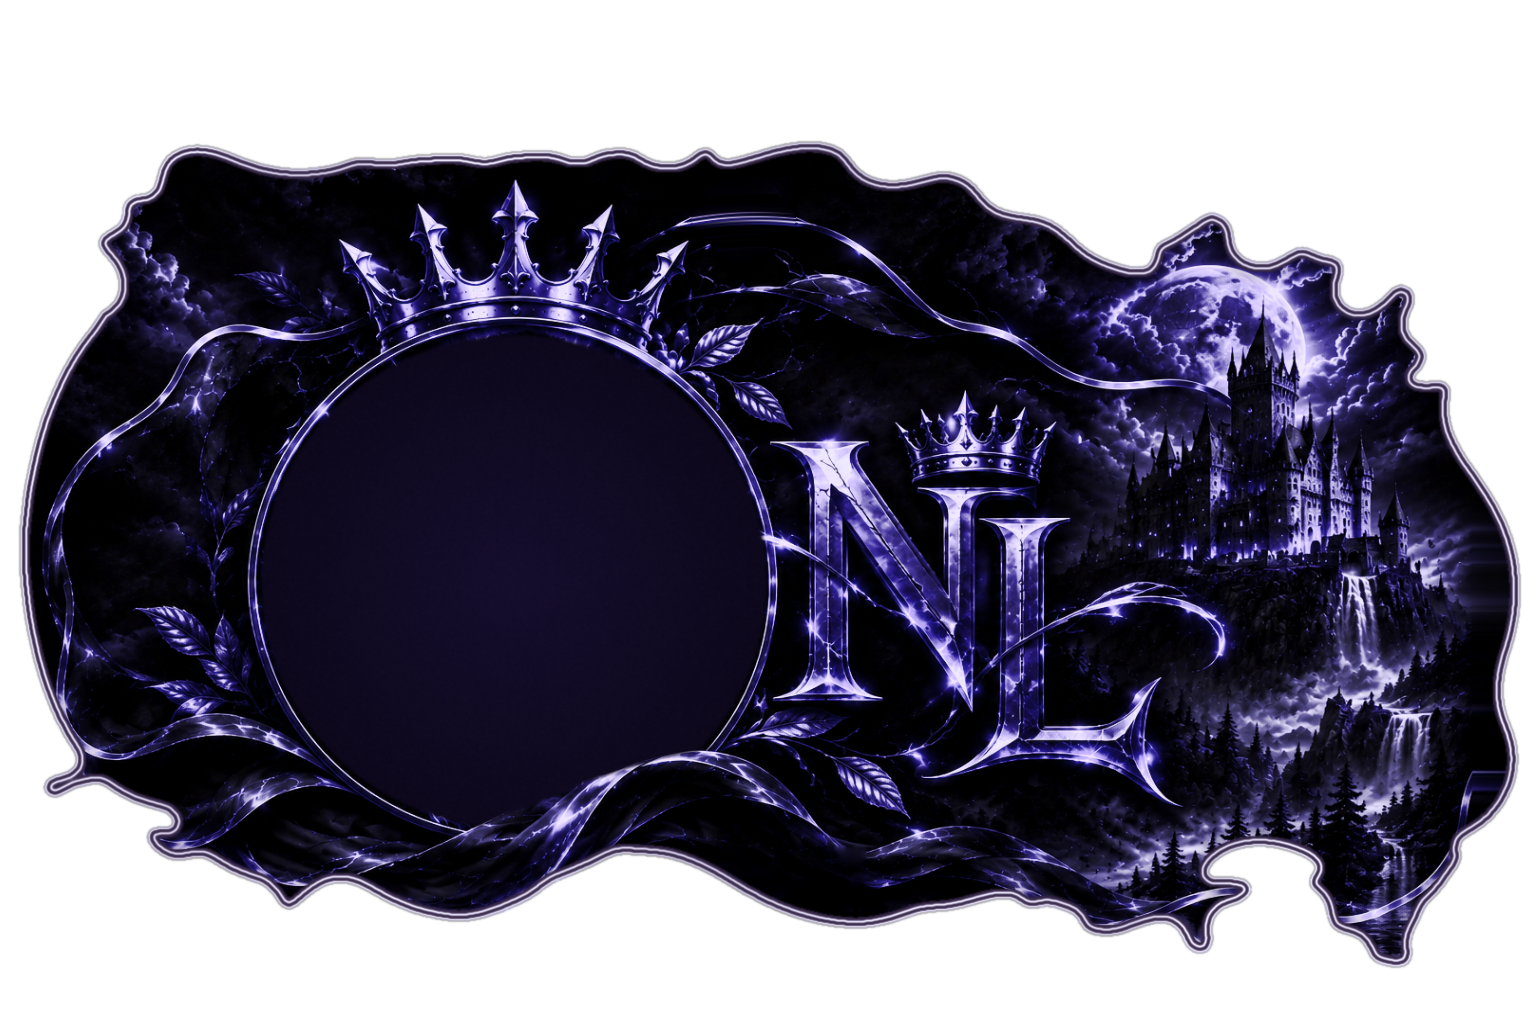
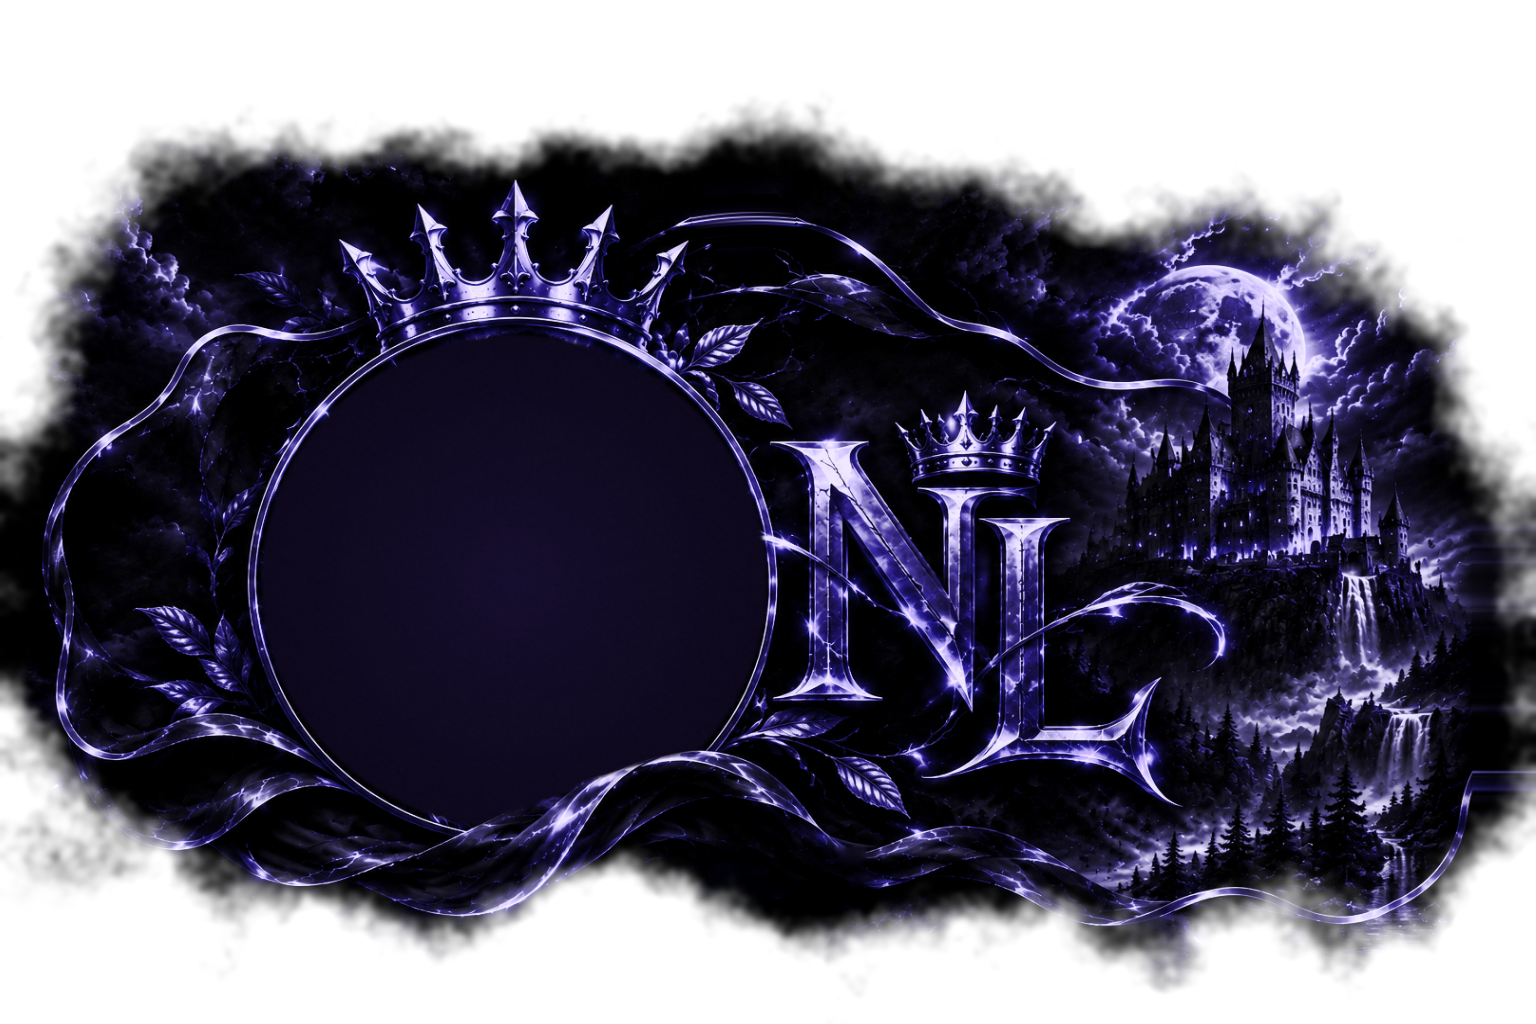
ترحيب: صورة الإطار الجديدة + مكان دائرة الأفتار محدّث تلقائيًا

Changed region(s): [[0.0, 0.0938, 1.0, 0.9688]]

diff --git a/never-land/welcome-frame-test.js b/never-land/welcome-frame-test.js
@@ -362,6 +362,44 @@ async function main() {
     ok('الصورة تُرسل أولًا ثم النص · {inviter} منشن · الدعوة العامة (فانيتي/بوت/مجهولة) ⇒ منشن 1345866950776979547 · الإيموجي الخارجي يُرفع أو يُبدَّل بـ ✨');
   }
 
+  console.log('\n═══ ٩) صورة الإطار الجديدة + ترقية مكان الدائرة تلقائيًا ═══');
+  {
+    const welcome = require('./src/systems/welcome');
+    const conf = require('./src/config');
+    assert.ok(typeof welcome.ensureFrameLayout === 'function', 'دالة ترقية مكان الدائرة ناقصة');
+
+    /* صورة الإطار = النسخة الجديدة (نفس رمز الصورة التي أرسلها المدير) */
+    const img = fs.readFileSync(FRAME);
+    const meta = config.defaults.welcome.frameCircle;
+    const px = img.readUInt32BE(16);
+    const py = img.readUInt32BE(20);
+    assert.strictEqual(px, 1536, 'عرض صورة الإطار الجديدة خطأ');
+    assert.strictEqual(py, 1024, 'ارتفاع صورة الإطار الجديدة خطأ');
+    assert.ok(Math.abs(meta.cx - 0.33398) < 0.0005 && Math.abs(meta.cy - 0.56494) < 0.0005, 'مركز دائرة الصورة الجديدة خطأ');
+    assert.ok(Math.abs(meta.r - 0.25244) < 0.0005, 'نصف قطر دائرة الصورة الجديدة خطأ');
+    /* مركز الدائرة المقيس من الصورة نفسها (فحص بكسلات: الحلقة لامعة) */
+    const cxPx = meta.cx * px;
+    const cyPx = meta.cy * py;
+    assert.ok(Math.abs(cxPx - 513) < 4 && Math.abs(cyPx - 578) < 4, `مركز الدائرة بالبكسل خطأ (${cxPx.toFixed(1)}, ${cyPx.toFixed(1)})`);
+
+    /* الإعدادات القديمة (دائرة النسخة الأولى) تُرقّى مرة واحدة · والمخصّصة ما تُلمس */
+    const legacyGuild = '920000000000000042';
+    db.updateGuildSettings(legacyGuild, {
+      welcome: { enabled: true, channelId: '1549365058633736243', imageMode: 'frame', styleUpgraded: true, frameCircle: { cx: 0.33431, cy: 0.56543, r: 0.2525 } },
+    });
+    assert.strictEqual(welcome.ensureFrameLayout(legacyGuild), true, 'الإعدادات القديمة لازم تُرقّى');
+    assert.deepStrictEqual(db.getGuildSettings(legacyGuild).welcome.frameCircle, conf.defaults.welcome.frameCircle, 'الدائرة المرقّاة لازم تساوي الافتراضي الجديد');
+    assert.strictEqual(welcome.ensureFrameLayout(legacyGuild), false, 'الترقية لازم تصير مرة واحدة');
+
+    const customGuild = '920000000000000043';
+    db.updateGuildSettings(customGuild, { welcome: { frameCircle: { cx: 0.5, cy: 0.5, r: 0.2 } } });
+    assert.strictEqual(welcome.ensureFrameLayout(customGuild), false, 'الدائرة المخصّصة بيد المدير ما تُلمس');
+    assert.deepStrictEqual(db.getGuildSettings(customGuild).welcome.frameCircle, { cx: 0.5, cy: 0.5, r: 0.2 }, 'الدائرة المخصّصة تغيّرت — ممنوع');
+
+    assert.ok(/ensureFrameLayout/.test(fs.readFileSync(require('node:path').join(__dirname, 'src', 'events', 'ready.js'), 'utf8')), 'الإقلاع لازم يرقّي مكان الدائرة');
+    ok('الإطار الجديد 1536×1024 ودائرته (513,578) مضبوطة — والإعدادات المحفوظة القديمة تُرقّى مرة واحدة');
+  }
+
   console.log(`\n🎉 ترحيب إطار Never Land جاهز (${checks} فحصًا)\n`);
 }
 

diff --git a/never-land/src/systems/welcome.js b/never-land/src/systems/welcome.js
@@ -25,6 +25,9 @@ try {
 /* حالة حيّة (تظهر في /api/status وللتشخيص) */
 const STATE = { guilds: {} };
 
+/** مكان دائرة النسخة القديمة من الإطار (لمعرفة إن المدير عدّل الدائرة بيده) */
+const OLD_FRAME_CIRCLE = { cx: 0.33431, cy: 0.56543, r: 0.2525 };
+
 /* النص الافتراضي القديم (لتحديد إن العميل ما عدّله بنفسه) */
 const OLD_DEFAULT_MESSAGE = 'أهلاً بك {user} في **{server}**، عدد الأعضاء الآن **{memberCount}**.';
 
@@ -81,6 +84,37 @@ function isPublicInvite(inviteInfo, guild = null, cfg = null) {
   if (!inviter) return true;
   if (inviter.bot) return true;
   return false;
+}
+
+/**
+ * 🖼 ترقية مكان دائرة الأفتار: لما نبدّل صورة الإطار بالنسخة الجديدة،
+ * الإعدادات المحفوظة القديمة تبقى تشير لمكان الدائرة القديم ⇒ نحدّثها للجديد،
+ * إلا لو المدير ضبط الدائرة بيده على قيم مختلفة (فما نلمسها).
+ * (منفصلة عن ensureStyle لأن تلك تشتغل مرة واحدة فقط)
+ * @returns {boolean} صار تحديث؟
+ */
+function ensureFrameLayout(guildId) {
+  if (!guildId) return false;
+  try {
+    const raw = db.getGuildSettings(guildId)?.welcome || {};
+    const defaults = require('../config').defaults.welcome;
+    const circle = raw.frameCircle;
+    const legacy = !circle || circle.cx === undefined
+      || (String(circle.cx) === String(OLD_FRAME_CIRCLE.cx)
+        && String(circle.cy) === String(OLD_FRAME_CIRCLE.cy)
+        && String(circle.r) === String(OLD_FRAME_CIRCLE.r));
+
+    const patch = {};
+    if (legacy) patch.frameCircle = defaults.frameCircle;
+    if (!raw.frameImage) patch.frameImage = defaults.frameImage;
+    if (!Object.keys(patch).length) return false;
+
+    db.updateGuildSettings(guildId, { welcome: patch });
+    console.log(`[الترحيب] تحديث مكان دائرة الأفتار لصورة الإطار الجديدة — السيرفر ${guildId}`);
+    return true;
+  } catch {
+    return false;
+  }
 }
 
 /**
@@ -644,5 +678,6 @@ module.exports = {
   missingEmojis,
   ensureEmojis,
   ensureStyle,
+  ensureFrameLayout,
   status,
 };

diff --git a/never-land/tests/smoke.js b/never-land/tests/smoke.js
@@ -2431,6 +2431,11 @@ console.log('[نجاح] كل الاختبارات نجحت!');
     assert.ok(typeof welcome54.isPublicInvite === 'function' && typeof welcome54.buildWelcomeMessages === 'function' && typeof welcome54.sendWelcomeMessages === 'function', 'دوال الإرسال الجديدة ناقصة');
     assert.ok(read54('src/systems/welcome.js').includes('client.application.emojis.create'), 'دعم إيموجي البوت (خارجي) ناقص');
     assert.ok(out54.includes('الصورة تُرسل أولًا ثم النص'), 'مجموعة فحص الإرسال في اختبار الإطار ناقصة');
+    /* صورة الإطار الجديدة + ترقية مكان الدائرة */
+    assert.ok(out54.includes('صورة الإطار الجديدة'), 'مجموعة فحص الإطار الجديد ناقصة');
+    assert.ok(Math.abs(cfg54.frameCircle.cx - 0.33398) < 0.0005 && Math.abs(cfg54.frameCircle.cy - 0.56494) < 0.0005, 'مركز دائرة الإطار الجديد خطأ');
+    assert.ok(typeof welcome54.ensureFrameLayout === 'function', 'ترقية مكان الدائرة ناقصة');
+    assert.ok(read54('src/events/ready.js').includes('ensureFrameLayout'), 'الإقلاع لازم يرقّي مكان الدائرة');
     console.log('  [تم] الإطار + الأفتار داخل الدائرة + الرسالة (Member · Inv By) + الاختبار التجريبي');
   }
 

diff --git a/never-land/src/events/ready.js b/never-land/src/events/ready.js
@@ -107,6 +107,8 @@ module.exports = {
       let upgraded = 0;
       for (const guild of client.guilds.cache.values()) {
         if (welcomeSystem.ensureStyle(guild.id)) upgraded += 1;
+        /* صورة إطار جديدة ⇒ نحدّث مكان دائرة الأفتار المحفوظ */
+        if (welcomeSystem.ensureFrameLayout(guild.id)) upgraded += 1;
         /* إيموجيات نص الترحيب: أي إيموجي مو موجود بالسيرفر نرفعه لحاله (حتى يظهر صح) */
         const welcomeCfg = db.getGuildSettings(guild.id)?.welcome;
         if (welcomeSystem.missingEmojis(guild, welcomeCfg?.message).length) {

diff --git a/never-land/src/config.js b/never-land/src/config.js
@@ -160,7 +160,7 @@ const config = {
        *   frameCircle : مكان الدائرة داخل الإطار بنسب من العرض/الارتفاع {cx,cy,r}
        */
       frameImage: 'assets/welcome-frame.png',
-      frameCircle: { cx: 0.33431, cy: 0.56543, r: 0.2525 },
+      frameCircle: { cx: 0.33398, cy: 0.56494, r: 0.25244 },
       /**
        * 📤 طريقة الإرسال: الصورة برسالة أولى ثم النص برسالة ثانية (الطريقة المطلوبة).
        * false = رسالة واحدة فيها الصورة والنص معًا.

diff --git a/never-land/src/lib/welcomeFrame.js b/never-land/src/lib/welcomeFrame.js
@@ -29,7 +29,7 @@ const ROOT = path.join(__dirname, '..', '..');
 const DEFAULT_FRAME = 'assets/welcome-frame.png';
 
 /** مكان دائرة الأفتار داخل الإطار (نسب من عرض/ارتفاع الصورة — مقيسة من الصورة نفسها) */
-const DEFAULT_ROI = { cx: 0.33431, cy: 0.56543, r: 0.2525 };
+const DEFAULT_ROI = { cx: 0.33398, cy: 0.56494, r: 0.25244 };
 
 /** تخزين مؤقت للصورة الأساسية (نقرأها من القرص مرة واحدة) */
 const cache = { path: null, image: null, width: 0, height: 0 };
